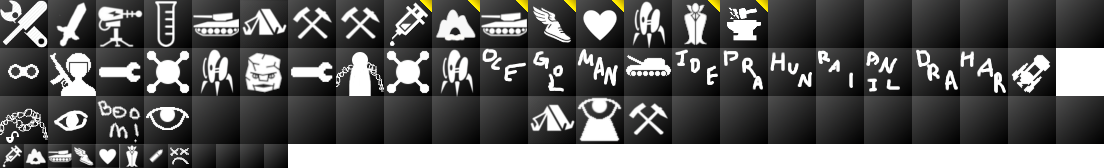
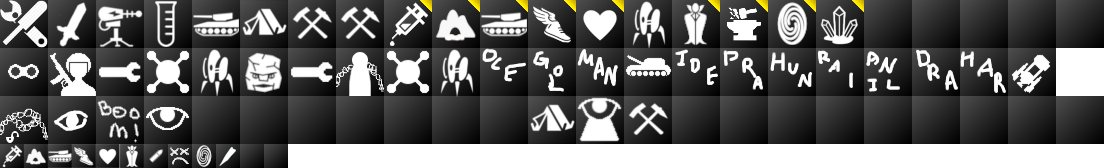
Implement Flash Point and Arctic Tower

Changed region(s): [[0.6775, 0.0, 0.8007, 0.2679], [0.154, 0.8631, 0.2156, 0.9821]]

diff --git a/shared/data.js b/shared/data.js
@@ -127,6 +127,24 @@ const structures = {
                     'description': "{Shauna's Forge}",
                     'icon': "{Shauna's Forge}",
                     'command': "build-Shauna's Forge"
+                },
+                {
+                    'title': "Build Flash Point",
+                    'cost': 1000,
+                    'prereq': [],
+                    'type': 'Structure',
+                    'description': "{Flash Point}",
+                    'icon': "{Flash Point}",
+                    'command': "build-Flash Point"
+                },
+                {
+                    'title': "Build Arctic Tower",
+                    'cost': 1000,
+                    'prereq': [],
+                    'type': 'Structure',
+                    'description': "{Arctic Tower}",
+                    'icon': "{Arctic Tower}",
+                    'command': "build-Arctic Tower"
                 }
             ]
     },
@@ -187,7 +205,7 @@ const structures = {
         }
     },
     'Stim Lab': {
-        'description': 'Takes 2 turns to build. Enhances attack speed of all allies by 25%.',
+        'description': 'Takes 2 turns to build. Enhances attack speed of allies by 25%.',
         'health': 250,
         'shield': 0,
         'width': 0,
@@ -198,7 +216,7 @@ const structures = {
         }
     },
     "Thieves' Cave": {
-        'description': 'Takes 2 turns to build. Ally attacks generate gold equal to 75% of damage dealt.',
+        'description': "Takes 2 turns to build. Produced unit's attacks generate gold equal to 75% of damage dealt.",
         'health': 250,
         'shield': 0,
         'width': 0,
@@ -209,7 +227,7 @@ const structures = {
         }
     },
     "Artillery Bay": {
-        'description': 'Takes 2 turns to build. Enhances attack damage of all allies by 30%.',
+        'description': 'Takes 2 turns to build. Enhances attack damage of allies by 30%.',
         'health': 250,
         'shield': 0,
         'width': 0,
@@ -220,7 +238,7 @@ const structures = {
         }
     },
     "Cloud Gate": {
-        'description': 'Takes 2 turns to build. Enhances movement range of all allies by 3.',
+        'description': 'Takes 2 turns to build. Enhances movement range of allies by 3.',
         'health': 250,
         'shield': 0,
         'width': 0,
@@ -231,7 +249,7 @@ const structures = {
         }
     },
     "Vitality Fountain": {
-        'description': 'Takes 2 turns to build. Enhances health of all allies by 50%.',
+        'description': 'Takes 2 turns to build. Enhances health of allies by 50%.',
         'health': 250,
         'shield': 0,
         'width': 0,
@@ -250,7 +268,7 @@ const structures = {
         'options': []
     },
     "Vampiric Lair": {
-        'description': 'Takes 2 turns to build. Allies heal for 10% of damage dealt.',
+        'description': 'Takes 2 turns to build. Produced units heal for 10% of damage dealt.',
         'health': 250,
         'shield': 0,
         'width': 0,
@@ -261,7 +279,7 @@ const structures = {
         }
     },
     "Shauna's Forge": {
-        'description': "Takes 2 turns to build. Ally attacks deal 2% of enemy's total health as extra damage.",
+        'description': "Takes 2 turns to build. Produced unit's attacks deal 2% of enemy's total health as extra damage.",
         'health': 250,
         'shield': 0,
         'width': 0,
@@ -269,6 +287,25 @@ const structures = {
         'options': [],
         'custom': {
             'healthMultiplier': 0.02
+        }
+    },
+    "Flash Point": {
+        'description': "Takes 2 turns to build. Produced units blink to their target location if within move range.",
+        'health': 250,
+        'shield': 0,
+        'width': 0,
+        'turnsToBuild': Constants.IS_PRODUCTION ? 2 : 1,
+        'options': []
+    },
+    "Arctic Tower": {
+        'description': "Takes 2 turns to build. Produced units stun enemies hit for 0.2s.",
+        'health': 250,
+        'shield': 0,
+        'width': 0,
+        'turnsToBuild': Constants.IS_PRODUCTION ? 2 : 1,
+        'options': [],
+        'custom': {
+            'stunDuration': 200
         }
     },
 };

diff --git a/shared/modifier.js b/shared/modifier.js
@@ -2,6 +2,8 @@
 //   also hook into triggers of events.
 const { PopupTextAnimation } = require('../client/animation');
 const Constants = require('./constants');
+const { tupleDistance } = require('./coordinates');
+const { default: PathFinder } = require('./path-finder');
 
 class BaseModifier {
     attackDamage(inAttackDamage) {
@@ -55,6 +57,19 @@ class BaseModifier {
     onLaunchAttack(state, attacker, target, damage) {
         if (this._onLaunchAttack) {
             this._onLaunchAttack(state, attacker, target, damage);
+        }
+    }
+
+    onPreMove(state, unit, location) {
+        if (this._onPreMove) {
+            return this._onPreMove(state, unit, location);
+        }
+        return false;
+    }
+
+    onPostMove(state, unit, location) {
+        if (this._onPostMove) {
+            this._onPostMove(state, unit, location);
         }
     }
 
@@ -353,6 +368,70 @@ class SilverBulletModifier extends BaseModifier {
     }
 };
 
+class ArcticTippedModifier extends BaseModifier {
+    constructor(stunDuration) {
+        super();
+        this.stunDuration = stunDuration;
+    }
+
+    _getName() {
+        return "ArcticTippedModifier";
+    }
+
+    _getDisplayName() {
+        return "Ice Tipped Bullets";
+    }
+
+    _getIconIndex() { return 9; }
+
+    _getDescription(state) {
+        return `Unit attacks stun enemies for ${this.stunDuration}s!`
+    }
+
+    _onLaunchAttack(state, attacker, target, damage) { 
+        if (target.isUnit) {
+            target.addModifier(attacker, new StunnedModifier("Frozen!"), {
+                duration: this.stunDuration,
+                onlyOne: true
+            });
+        }
+    }
+};
+
+class FlashPointModifier extends BaseModifier {
+    constructor() {
+        super();
+    }
+
+    _getName() {
+        return "FlashPointModifier";
+    }
+
+    _getDisplayName() {
+        return "Teleports Behind You";
+    }
+
+    _getIconIndex() { return 8; }
+
+    _getDescription(state) {
+        return `Unit blinks to target location instead of moving!`;
+    }
+
+    _onPreMove(state, unit, location) {
+        if (unit.targetPoints.length > 0) {
+            // Get first target point
+            const target = unit.targetPoints[0];
+            if (tupleDistance(unit.position, target) <= unit.moveRange) {
+                console.log("Flashing from", unit.position, "to", target);
+                state.moveUnit(unit.position, target);
+                return true; // override move
+            }
+        }
+        return false;
+    }
+    
+};
+
 // Applied to buildings, lets the building apply buff to units constructed
 class BarracksBuffGiver extends BaseModifier {
     constructor(buffConstructor) {
@@ -390,5 +469,7 @@ module.exports = {
     VampiricModifier,
     SilverBulletModifier,
     StunnedModifier,
-    BarracksBuffGiver
+    BarracksBuffGiver,
+    ArcticTippedModifier,
+    FlashPointModifier
 };

diff --git a/shared/triggers.js b/shared/triggers.js
@@ -18,7 +18,9 @@ const {
     VampiricModifier,
     SilverBulletModifier,
     BarracksBuffGiver,
-    StunnedModifier
+    StunnedModifier,
+    FlashPointModifier,
+    ArcticTippedModifier
 } = require('./modifier');
 
 function buffableUnit(u) {
@@ -228,6 +230,46 @@ const triggers = {
             barracks.forEach(b => {
                 b.addModifier(this, new BarracksBuffGiver(() => {
                     return new ThievesModifier(this.custom.attackGoldGen);
+                }), {
+                    onlyOne: true
+                });
+            });
+        },
+        onDestroy(state) {
+            const barracks = state.getStructuresOnMyTeam(this.owner, rangeOneBarracks(this));
+            const adder = this;
+            barracks.forEach(u => {
+                u.removeModifierByAdder(adder);
+            });
+        }
+    },
+    "Flash Point": {
+        onActionStart(state) {
+            // Add modifier to barracks next to me
+            const barracks = state.getStructuresOnMyTeam(this.owner, rangeOneBarracks(this));
+            barracks.forEach(b => {
+                b.addModifier(this, new BarracksBuffGiver(() => {
+                    return new FlashPointModifier();
+                }), {
+                    onlyOne: true
+                });
+            });
+        },
+        onDestroy(state) {
+            const barracks = state.getStructuresOnMyTeam(this.owner, rangeOneBarracks(this));
+            const adder = this;
+            barracks.forEach(u => {
+                u.removeModifierByAdder(adder);
+            });
+        }
+    },
+    "Arctic Tower": {
+        onActionStart(state) {
+            // Add modifier to barracks next to me
+            const barracks = state.getStructuresOnMyTeam(this.owner, rangeOneBarracks(this));
+            barracks.forEach(b => {
+                b.addModifier(this, new BarracksBuffGiver(() => {
+                    return new ArcticTippedModifier(this.custom.stunDuration);
                 }), {
                     onlyOne: true
                 });

diff --git a/shared/map-objects.js b/shared/map-objects.js
@@ -168,6 +168,22 @@ module.exports.Unit = class extends ModifierHolder {
         });
     }
 
+    onPreMove(state, target, moveTo) {
+        const modifiers = Object.values(this.modifiers);
+        for (let i = 0; i < modifiers.length; i++) {
+            if (modifiers[i].onPreMove(state, this, moveTo)) {
+                return true;
+            }
+        }
+        return false;
+    }
+
+    onPostMove(state, target, moveTo) {
+        Object.values(this.modifiers).forEach(m => {
+            m.onPostMove(state, this, moveTo);
+        });
+    }
+
     getVisionValue() {
         if (this.custom && this.custom.superVision)
             return this.custom.superVision;

diff --git a/shared/state-change.js b/shared/state-change.js
@@ -305,7 +305,10 @@ class MoveUnitStateChange extends StateChange {
         const path = PathFinder.findPath(state, this.data.posFrom, this.data.posTo);
         unit.moveRange -= path.length;
 
-        state.moveUnit(this.data.posFrom, this.data.posTo);
+        if (!unit.onPreMove(state, unit, this.data.posTo)) {
+            state.moveUnit(this.data.posFrom, this.data.posTo);
+        }
+        unit.onPostMove(state, unit, this.data.posTo);
     }
 }
 StateChange.registerSubClass(MoveUnitStateChange);

diff --git a/shared/game-state.js b/shared/game-state.js
@@ -476,6 +476,7 @@ module.exports = class GameState {
     }
 
     moveUnit(from, to) {
+        if (from.x === to.x && from.y === to.y) return;
         /* Assumes the coordinates are verified. */
         const unit = this.mapObjects[from.y][from.x];
         unit.position = to;

diff --git a/server/game.js b/server/game.js
@@ -61,7 +61,9 @@ module.exports = class Game {
 
     verifyStateChange(stateChange) {
         console.log('Verifying State Change');
+    
         console.log(stateChange);
+
         return stateChange &&
             stateChange.verifyStateChange(this.state);
     }
